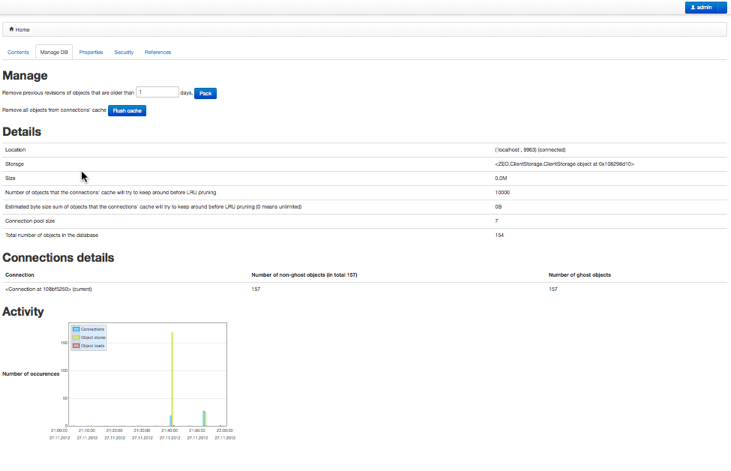
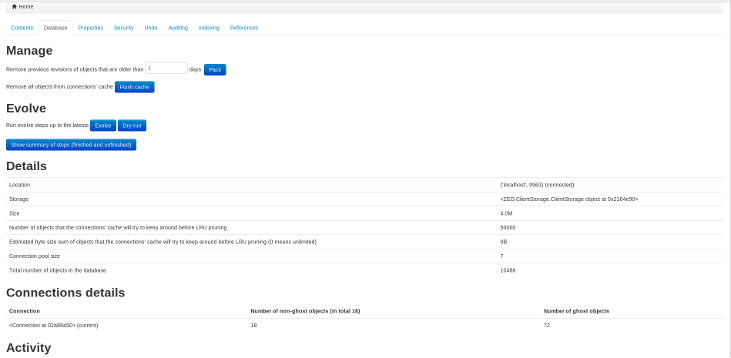
update docs

diff --git a/docs/sdi.rst b/docs/sdi.rst
@@ -255,6 +255,8 @@ This tab appears on the root object of the site and lets you:
 
 - Pack the old revisions of objects in the database.
 
+- Inspect and run evolution steps  
+
 - Flush the object cache.
 
 - See details and statistics about the database, the connection, and
